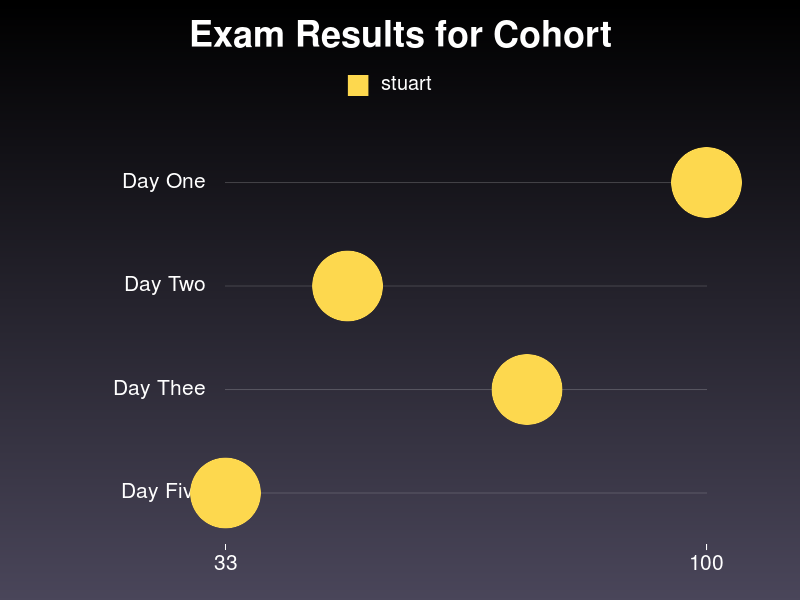
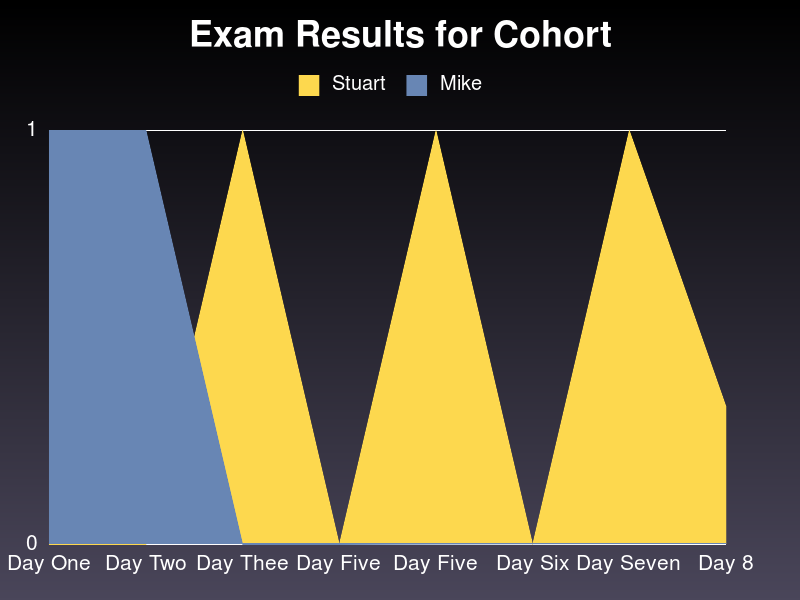
Changed styling for exams based on the result

diff --git a/app/assets/stylesheets/cohorts.scss b/app/assets/stylesheets/cohorts.scss
@@ -2,7 +2,7 @@
 // They will automatically be included in application.css.
 // You can use Sass (SCSS) here: http://sass-lang.com/
 
-.new-student-list, .individual-student, .cohorts-exam-list {
+.new-student-list, .individual-student {
   display: inline-block;
   padding: 10px;
   border-radius: 10%;
@@ -28,6 +28,47 @@
   display: none;
 }
 
+.cohorts-exam-list {
+  display: inline-block;
+  padding: 10px;
+  border-radius: 10%;
+  border: 1px solid black;
+  background-color: white;
+  color: black;
+  font-weight: bolder;
+  font-size: 20px;
+
+  &.passed {
+    background-color: rgba(18, 147, 69, 0.8);
+  }
+
+  &.failed {
+    background-color: rgba(153, 39, 14, 0.8)
+  }
+}
+
 .cohorts-exam-list:hover {
   color: rgba(215, 121, 10, 0.85);
+}
+
+.cohorts-exam-list-passed {
+  display: inline-block;
+  padding: 10px;
+  border-radius: 10%;
+  border: 1px solid black;
+  background-color: rgba(18, 147, 69, 0.8);
+  color: white;
+  font-weight: bolder;
+  font-size: 20px;
+}
+
+.cohorts-exam-list-failed {
+  display: inline-block;
+  padding: 10px;
+  border-radius: 10%;
+  border: 1px solid black;
+  background-color: rgba(153, 39, 14, 0.8);
+  color: white;
+  font-weight: bolder;
+  font-size: 20px;
 }

diff --git a/app/models/scantron.rb b/app/models/scantron.rb
@@ -7,4 +7,24 @@ class Scantron < ActiveRecord::Base
     "#{(self.result*100).round(2)} %"
   end
 
+  def self.find_scantron_by_exam(exam_id, user_id)
+    Scantron.where(exam_id: exam_id).where(user_id: user_id).first
+  end
+
+  def self.class_for_scantron(exam_id, user_id)
+    scantron_class = ""
+    if Scantron.find_scantron_by_exam(exam_id, user_id)
+      scantron_current = Scantron.find_scantron_by_exam(exam_id, user_id)
+      if scantron_current.result != nil
+        scantron_current.result > 0.75 ? scantron_class = "cohorts-exam-list-passed" : scantron_class = "cohorts-exam-list-failed"
+      else
+        return false
+      end
+    else
+      return false
+    end
+
+    scantron_class
+  end
+
 end

diff --git a/app/controllers/cohorts_controller.rb b/app/controllers/cohorts_controller.rb
@@ -27,18 +27,17 @@ class CohortsController < ApplicationController
       @exam_labels[index] = exam.name
     }
 
-    g = Gruff::Dot.new
+    g = Gruff::Area.new
     g.title = "Exam Results for Cohort"
     g.labels = @exam_labels
     @users.each { |user|
       test_results = []
       user.scantrons.each { |scantron|
-        test_results << scantron.result
+        test_results << scantron.result if scantron.result != nil
       }
-      # g.data "#{user.name}", test_results
+      g.data user.name.to_sym, test_results
     }
     g.marker_count = 1
-    g.data :stuart, [100,50,75,33]
     g.write('app/assets/images/examresults.png')
 
   end
